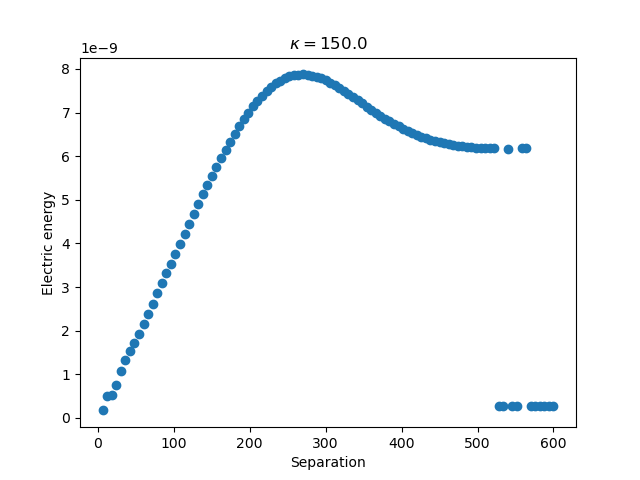
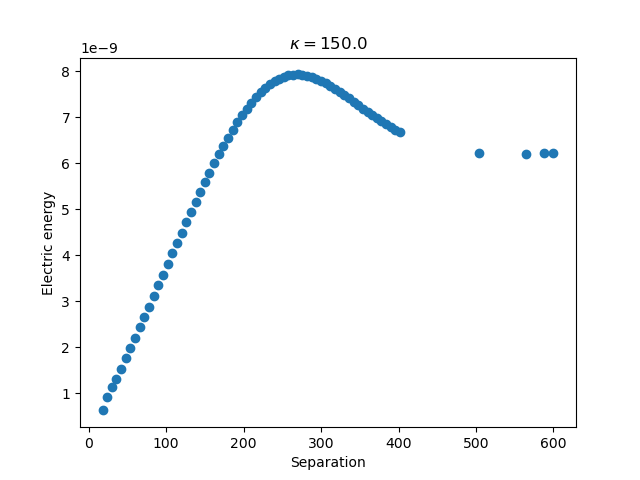
going for k = 150, 100x100

diff --git a/plotter_cart.py b/plotter_cart.py
@@ -66,7 +66,3 @@ for idx, f in enumerate(energy_densities):
     plt.title(titles[idx])
     plt.savefig(save_files[idx])
     plt.close()
-
-plt.scatter(np.arange(len(xs)), np.sort(xs))
-plt.yscale('log')
-plt.show()

diff --git a/solver_rec.py b/solver_rec.py
@@ -17,7 +17,6 @@ K = float(sys.argv[2])
 As = np.linspace(0, 2*K, 101)[1:]
 
 N = float(sys.argv[3])
-N = 1
 NU = int(sys.argv[4])
 NV = int(sys.argv[5])
 file = 'data/' + sys.argv[6] + '.npy'
